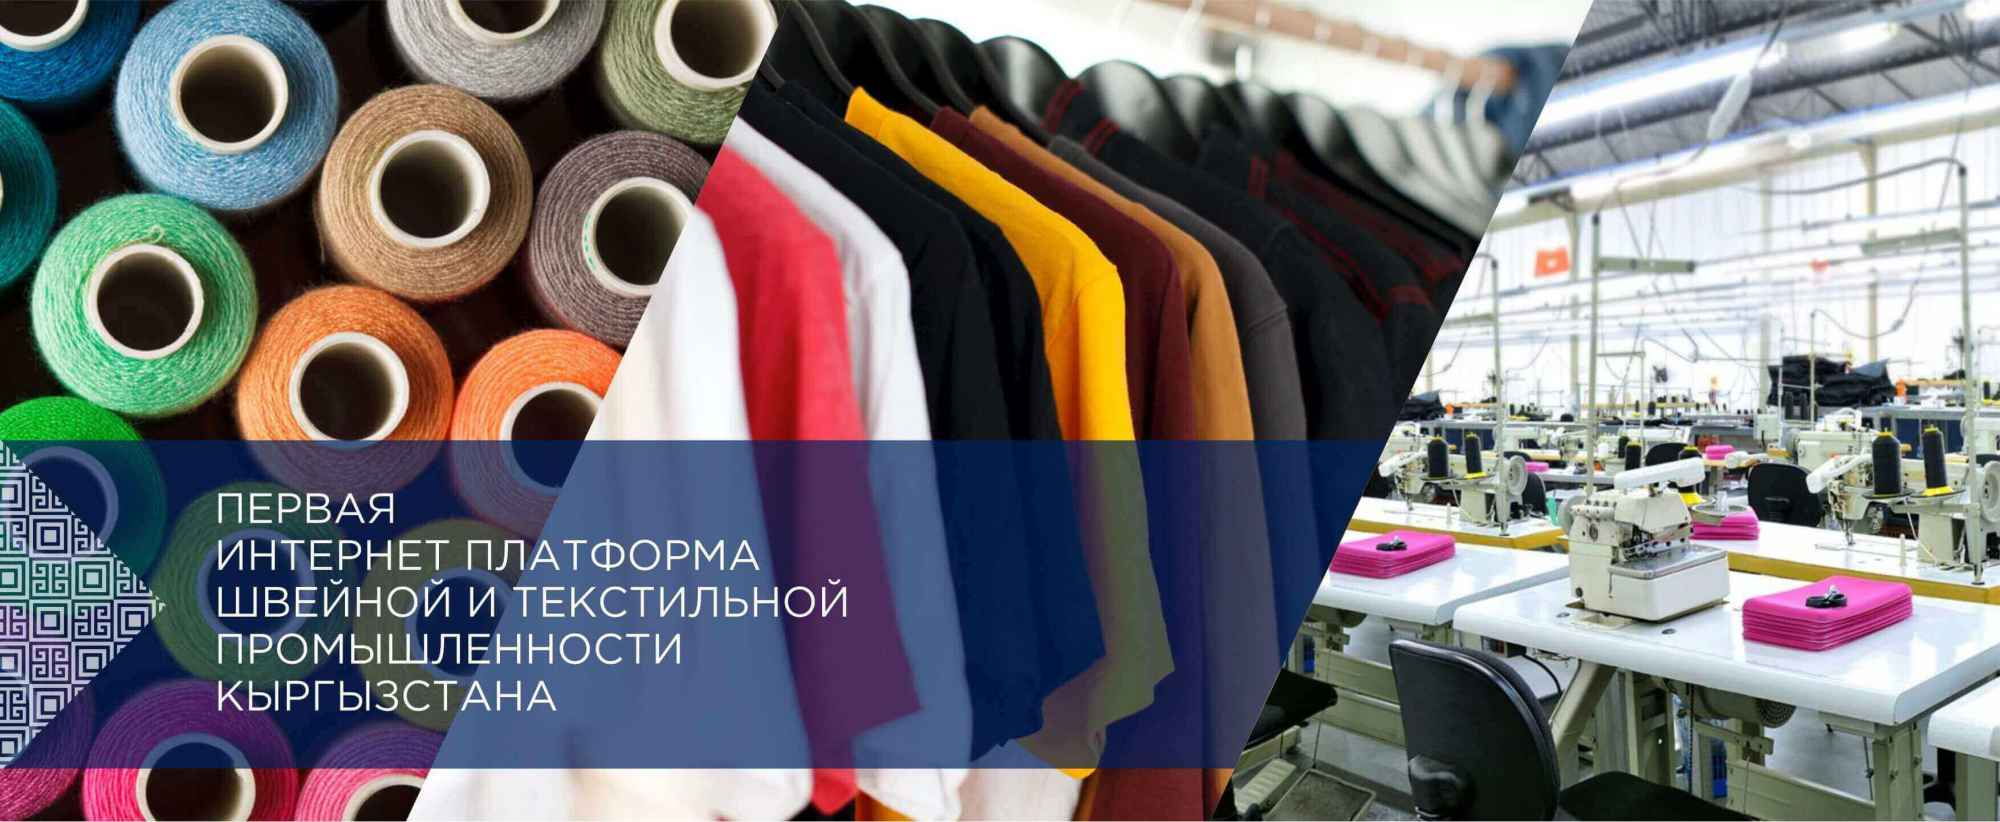
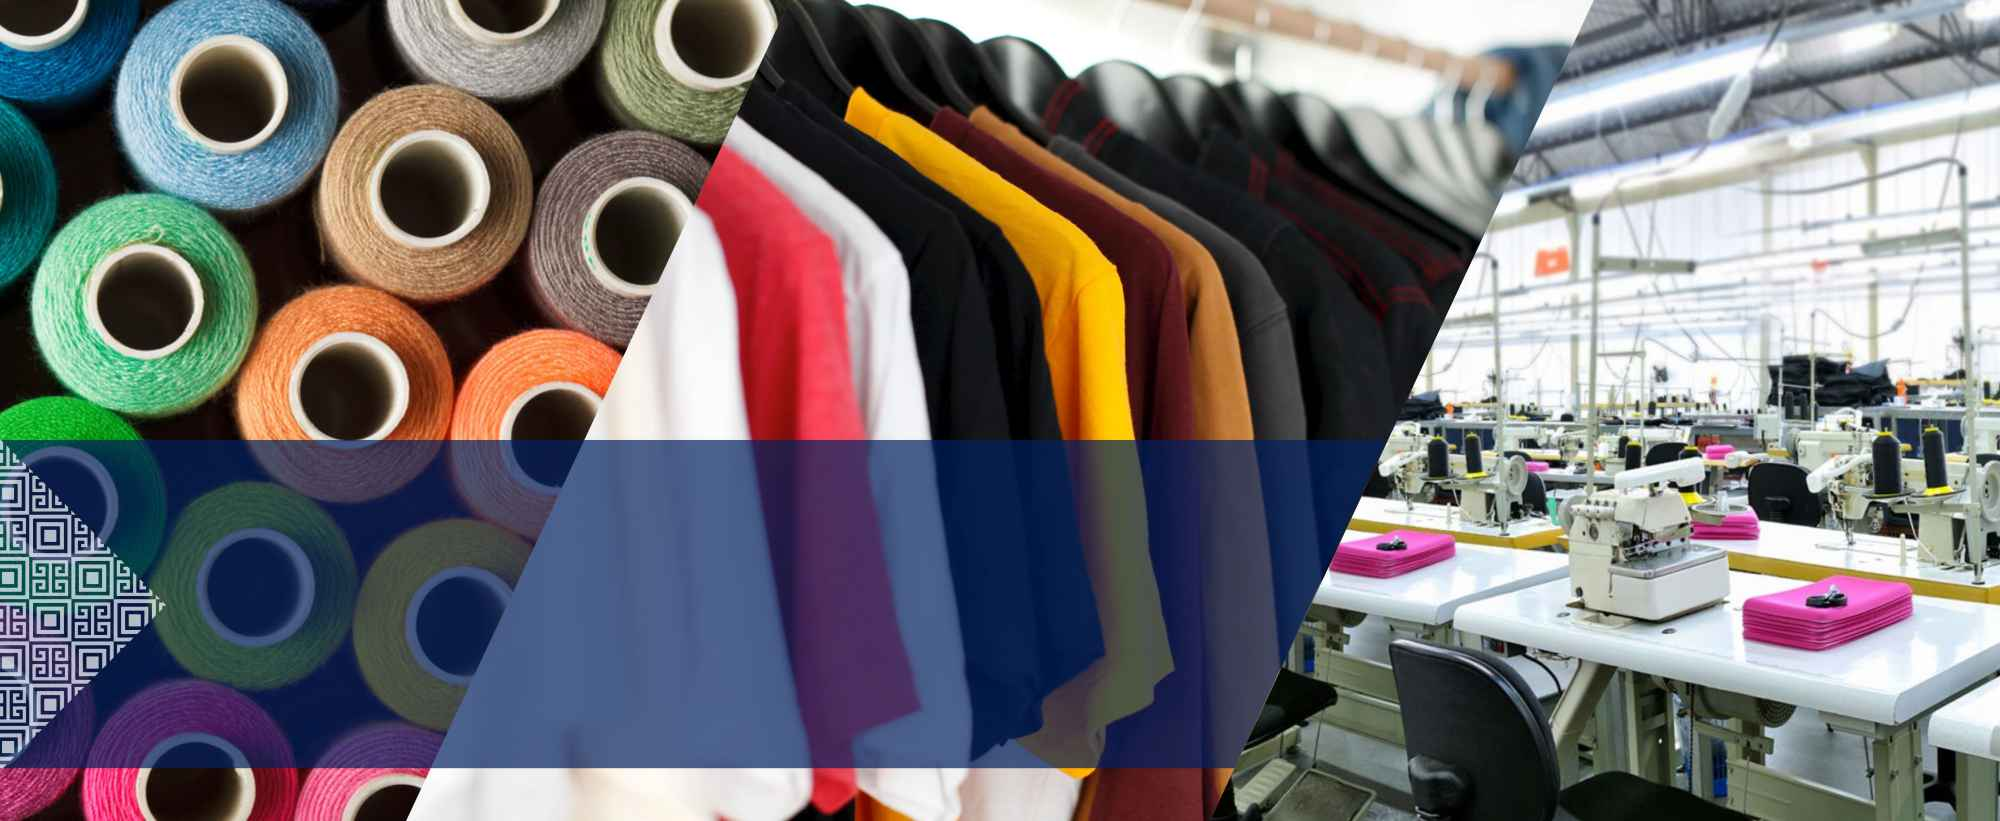
fix

diff --git a/resources/views/partials/promo.blade.php b/resources/views/partials/promo.blade.php
@@ -15,21 +15,21 @@
     <div class="promo-carousel owl-carousel owl-theme">
         <div class="item">
             <img src="img/slide1.jpg" class="img-fluid" alt="...">
-{{--            <div class="position-absolute text-dark font-weight-bold bg-white-75 w-100 p-5 text-center promo-carousel-text">--}}
-{{--                <h2>Первая интернет платформа швейной и текстильной промышленности Кыргызстана</h2>--}}
-{{--            </div>--}}
+            <div class="position-absolute" style="bottom: 15%; left: 15%;">
+                <h2 class="text-uppercase text-white" style="font-size: 290%!important;">Первая интернет платформа <br> швейной и текстильной <br> промышленности Кыргызстана</h2>
+            </div>
         </div>
         <div class="item">
             <img src="img/slide2.jpg" class="img-fluid" alt="...">
-{{--            <div class="position-absolute text-dark font-weight-bold bg-white-75 w-100 p-5 text-center promo-carousel-text">--}}
-{{--                <h2>Консалтинг, оформление всех<br>бухгалтерских и юридических документов</h2>--}}
-{{--            </div>--}}
+            <div class="position-absolute" style="bottom: 15%; left: 15%;">
+                <h2 class="text-uppercase text-white" style="font-size: 290%!important;">Консалтинг, <br> оформление всех бухгалтерских <br> и юридических документов</h2>
+            </div>
         </div>
         <div class="item">
             <img src="img/slide3.jpg" class="img-fluid" alt="...">
-{{--            <div class="position-absolute text-dark font-weight-bold bg-white-75 w-100 p-5 text-center promo-carousel-text">--}}
-{{--                <h2>Оценка качества пошива одежды и <br>производства от <span class="text-uppercase">Texmart</span></h2>--}}
-{{--            </div>--}}
+            <div class="position-absolute" style="bottom: 15%; left: 15%;">
+                <h2 class="text-uppercase text-white" style="font-size: 290%!important;">Оценка качества пошива одежды <br> и производства от Texmart.kg <br> для уверенности на расстоянии</h2>
+            </div>
         </div>
     </div>
 </div>

diff --git a/resources/views/productions/carousel.blade.php b/resources/views/productions/carousel.blade.php
@@ -1,9 +1,15 @@
-<div class="productions owl-carousel owl-theme">
+@if(count($productions) > 5)
+    <div class="{{ count($productions) > 5 ? 'productions' : '' }} owl-carousel owl-theme">
+        @foreach($productions as $production)
+            <div class="item">
+                @include('productions.single', ['bootstrap3' => isset($bootstrap3) ? true : false, 'id' => $production->id])
+            </div>
+        @endforeach
+    </div>
+@else
     @foreach($productions as $production)
-        <div class="item">
+        <div class="col-12 col-sm-6 col-md-4 col-xl-3">
             @include('productions.single', ['bootstrap3' => isset($bootstrap3) ? true : false, 'id' => $production->id])
         </div>
     @endforeach
-</div>
-
-
+@endif

diff --git a/app/Http/Controllers/MainController.php b/app/Http/Controllers/MainController.php
@@ -14,9 +14,9 @@ class MainController extends Controller
 {
     public function index()
     {
-        $productions = Production::where('type', 'productions')->get('id', 'title', 'slug');
-        $services = Production::where('type', 'service')->get('id', 'title', 'slug');
-        $products = Production::where('type', 'product')->get('id', 'title', 'slug');
+        $productions = Production::where('type', 'productions')->get(['id', 'title', 'slug', 'logo']);
+        $services = Production::where('type', 'service')->get(['id', 'title', 'slug', 'logo']);
+        $products = Production::where('type', 'product')->get(['id', 'title', 'slug', 'logo']);
 
         return view('welcome', [
             'productions' => $productions,
